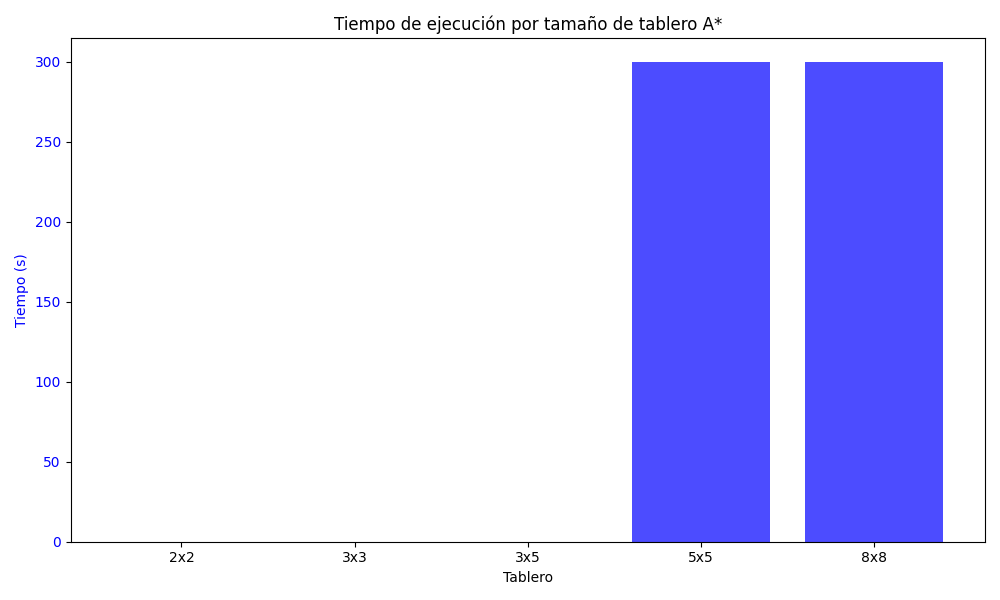
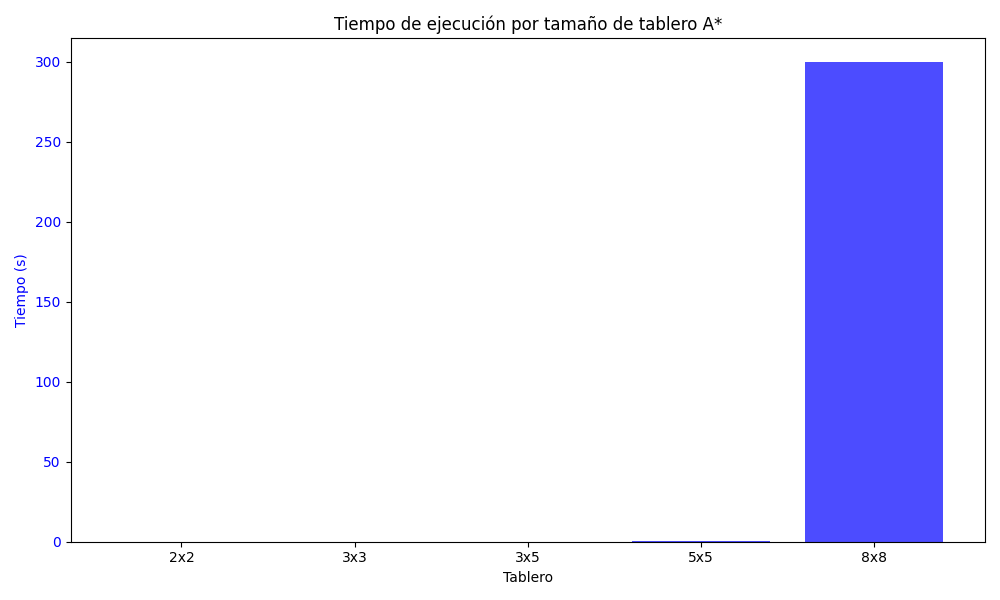
fix chart

Changed region(s): [[0.62, 0.09, 0.775, 0.9]]

diff --git a/ia_practica_1/utils/chart_creator.py b/ia_practica_1/utils/chart_creator.py
@@ -44,7 +44,7 @@ def create_byb_chart():
 def create_astar_chart():
     # Datos de la tabla
     tableros = ["2x2", "3x3", "3x5", "5x5", "8x8"]
-    tiempos = [0.001, 0.003, 0.034, 5*60, 5*60]
+    tiempos = [0.001, 0.003, 0.034, 0.229, 5*60]
     # caballos = [4, 4, 5, 10, 24]
 
     # Crear la figura y los ejes
@@ -76,5 +76,5 @@ def create_astar_chart():
 
     plt.show()
 
-create_byb_chart()
+# create_byb_chart()
 create_astar_chart()
